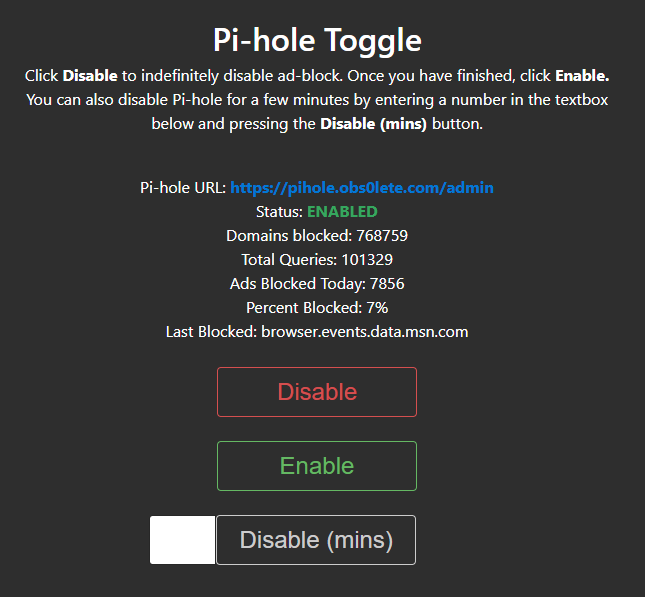
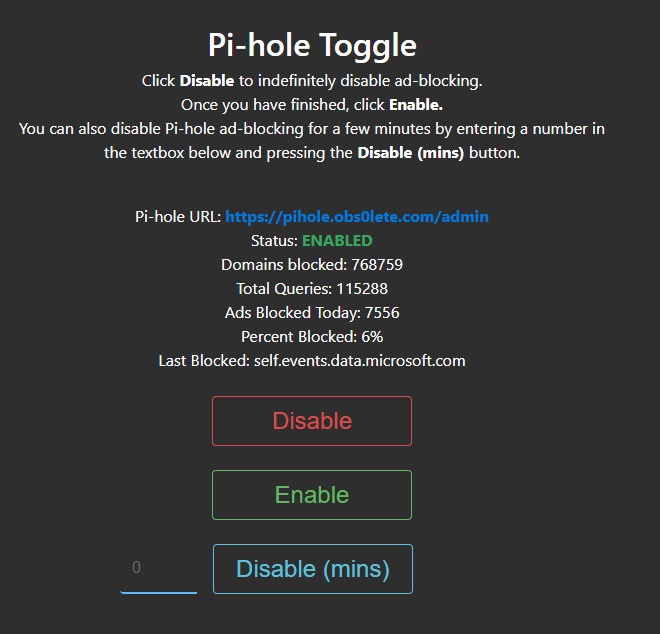
- Added some validation logic - Formatted text. - Styled the text box - Updated screenshot

Changed region(s): [[0.186, 0.3015, 0.7752, 0.9648], [0.031, 0.0302, 0.9612, 0.2714], [0.3101, 0.6332, 0.3411, 0.6935]]

diff --git a/css/style.css b/css/style.css
@@ -21,10 +21,18 @@ height: 50px;
 
 input.form-control {
 max-width: 20% !important;
+background-color: #2e2e2e;
+border: none;
+border-bottom: 2px solid #5EB5FA;;
+}
+
+input.form-control:focus {
+background-color: #2e2e2e !important;
+font-size: 1.5rem;
 }
 
 .input-group.mb-3 {
 margin-left: auto;
 margin-right: auto;
-width: 21em;
+width: 24em;
 }

diff --git a/index.php b/index.php
@@ -27,9 +27,17 @@
         <!-- Create an alert when disabling per X mins -->
         <script>
         function getInputValue(){
-            var inputVal = document.getElementById("disableTime").value;
-            alert("Pi-hole ad-blocking will be disabled for " + inputVal + " minute(s).\nAfter this time, Pi-hole will re-enable ad-blocking by itself.");
-        }
+            var val = document.getElementById("disableTime").value;
+                if (val === "") {
+                    alert("You must enter a number, in minutes. ");
+                } else if (val === "0")  {
+                    alert("You must enter a nummber greater than 0.");
+                    return false;
+                } else {
+                    alert("Pi-hole ad-blocking will be disabled for " + val + " minute(s).\nAfter this time, Pi-hole will re-enable ad-blocking by itself.");
+                return true;
+                }
+            }
         </script>
     </head>
 
@@ -42,7 +50,9 @@
                     <h2>
                         Pi-hole Toggle
                     </h2>
-                        Click <strong>Disable</strong> to indefinitely disable ad-blocking. Once you have finished, click <strong>Enable.</strong>
+                        Click <strong>Disable</strong> to indefinitely disable ad-blocking.
+                        <br/>
+                        Once you have finished, click <strong>Enable.</strong>
                         <br/>
                         You can also disable Pi-hole ad-blocking for a few minutes by entering a number in the textbox below and pressing the <strong>Disable (mins)</strong> button.
                         <br/><br/>
@@ -146,9 +156,9 @@
     <!-- Disable (min) buttons -->
     <form action="disableTime.php" method="post">
         <div class="input-group mb-3">
-            <input type="text" class="form-control" id="disableTime" name="disableTime" aria-label="disableTime">
+            <input type="number" class="form-control" id="disableTime" name="disableTime" aria-label="disableTime" placeholder="0" min="1" required>
                 <div class="input-group-append">
-                    <button type="submit" name="submit" class="btn btn-outline-secondary" type="button" onclick="getInputValue();">Disable (mins)</button>
+                &emsp;<button type="submit" name="submit" class="btn btn-outline-info" type="button" onclick="getInputValue();">Disable (mins)</button>
                 </div>
         </div>
     </form>
